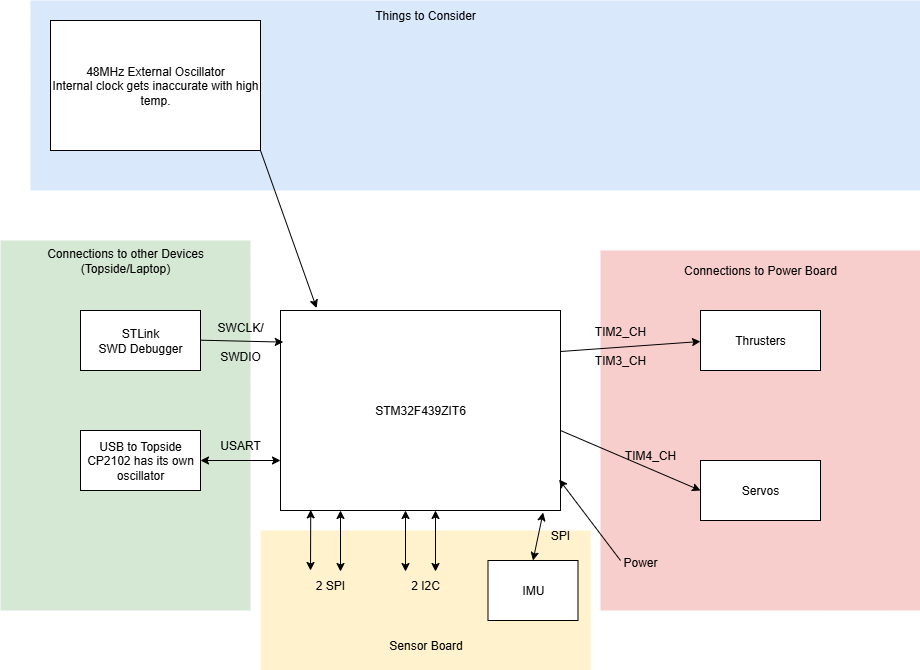
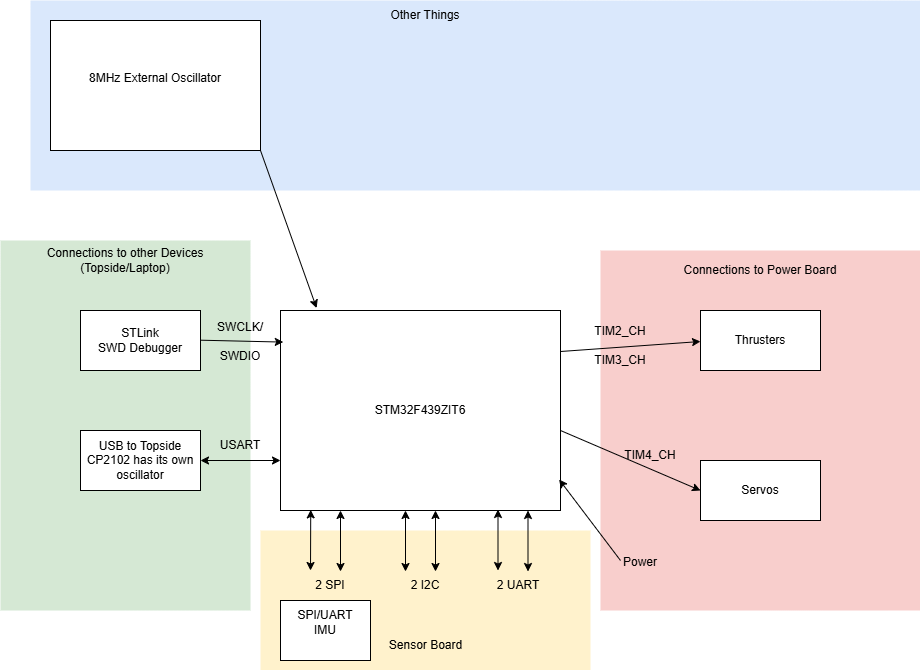
Updated MCU Board Pins

diff --git a/Documentation/MCU Board.md b/Documentation/MCU Board.md
@@ -9,20 +9,20 @@ CP2102 sends USB_D+ and USB_D1 to USB port
 
 Use USART1  
 
-| Signal    | Pin  |
-| --------- | ---- |
-| USART1_TX | PD8  |
-| USART1_RX | PD9  |
+| Signal    | Pin |
+| --------- | --- |
+| USART3_TX | D8  |
+| USART3_RX | D9  |
 
 ## SWD Debugger
 https://www.hackster.io/patrick-fitzgerald2/program-stm32-arm-cortex-with-st-link-swd-interface-f0d9e2
 
 4 lines: 3v3, GND, SWCLK, and SWDIO
 
-| Signal | Pin  |
-| ------ | ---- |
-| SWDIO  | PA13 |
-| SWCLK  | PA14 |
+| Signal | Pin |
+| ------ | --- |
+| SWDIO  | A13 |
+| SWCLK  | A14 |
 
 
 ## Power
@@ -35,23 +35,37 @@ TIM2 : 4 Horizontal Thrusters
 
 TIM3 : 2 Vertical Thrusters
 
-TIM4 : up to 4 Servos
+TIM4 : up to 4 Servos PWMs
 
 | Signal   | Pin |
 | -------- | --- |
-| TIM2_CH1 | PA5 |
-| TIM2_CH2 | PA1 |
-| TIM2_CH3 | PA2 |
-| TIM2_CH4 | PA3 |
-| TIM3_CH1 | PA6 |
-| TIM3_CH2 | PA7 |
-| TIM4_CH1 | PB6 |
-| TIM4_CH2 | PB7 |
-| TIM4_CH3 | PB8 |
-| TIM4_CH4 | PB9 |
+| TIM2_CH1 | A15 |
+| TIM2_CH2 | A1  |
+| TIM2_CH3 | A2  |
+| TIM2_CH4 | A3  |
+| TIM3_CH1 | A6  |
+| TIM3_CH2 | A7  |
+| TIM4_CH1 | B6  |
+| TIM4_CH2 | B7  |
+| TIM4_CH3 | B8  |
+| TIM4_CH4 | B9  |
 
-Does placing these signals on close traces do anything?
 
 ## Sensors
-### IMU
-Use SPI
+### 1 UART, 2 SPI, and 2 I2C
+
+| Signal    | Pin | Notes |
+| --------- | --- | ----- |
+| USART2_Tx | D5  |       |
+| USART2_Rx | D6  |       |
+| SPI1_SCK  | B3  |       |
+| SPI1_MISO | B4  |       |
+| SPI1_MOSI | B5  |       |
+| SPI2_SCK  | B10 |       |
+| SPI2_MISO | C2  |       |
+| SPI2_MOSI | C3  |       |
+| I2C1_SCL  | B6  |       |
+| I2C1_SDA  | B7  |       |
+| I2C2_SDA  | F0  |       |
+| I2C2_SCL  | F1  |       |
+|           |     |       |
